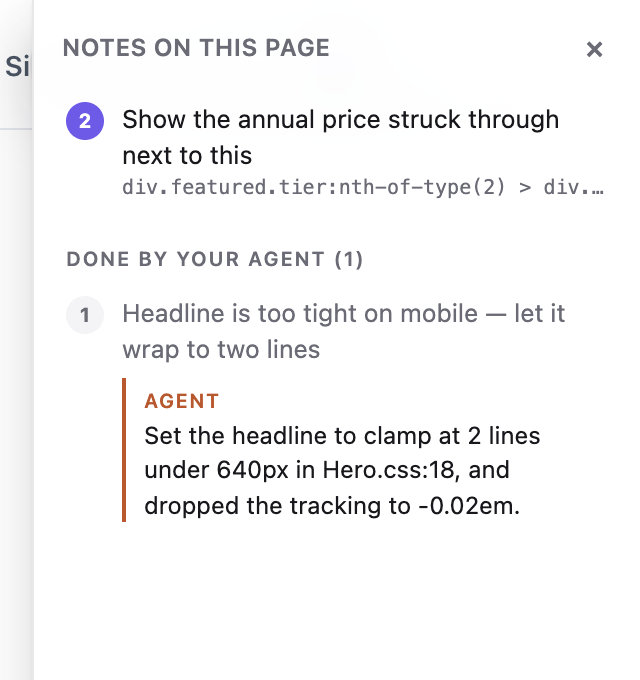
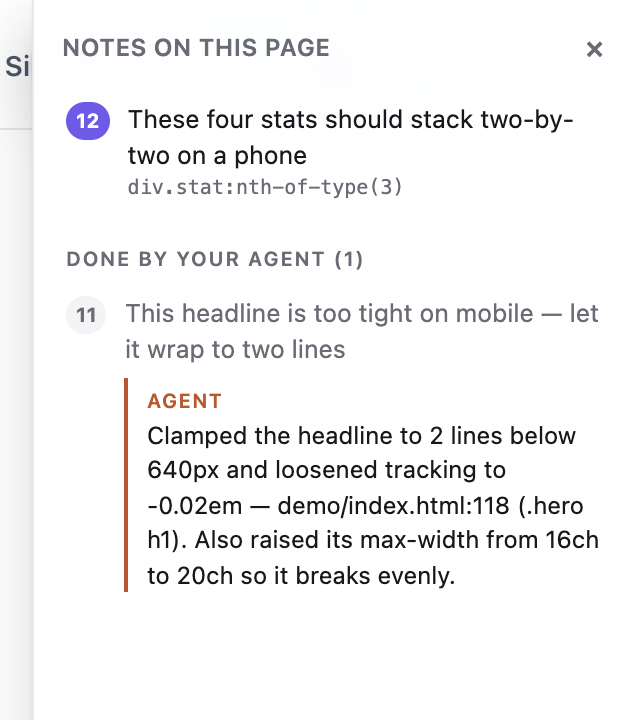
Never attach a screenshot of somewhere else
Found by using the thing: a note on the hero <h1> came back with a confident
screenshot of the pricing section further down the page, and screenshotSkipped
unset. The crop is measured in VIEWPORT coordinates when Send is pressed but
taken moments later by the worker, so scrolling in between leaves those
coordinates pointing at whatever has moved into that spot. A wrong picture is
worse than none — the agent believes it, and may change something the developer
never marked. The README already promised this could not happen.

The rect is now also sent in document coordinates, which do not move, and
re-derived against the page's real scroll at capture time: a small scroll still
yields a correct crop, and scrolling away is refused with a reason.

Getting there broke three other things, each caught by the full suite and never
by the test written for the fix:

- The added round trip WIDENED the navigation window it was closing. After
  waitUntilCapturable said "ready", the page finished navigating during the
  query and the new page was cropped. The content script now reports the URL it
  is actually on in the same message.
- chrome.tabs.sendMessage goes to every frame, so an iframe answered first with
  its own URL and scroll — skipping the screenshot on any page with an iframe.
  It asks frameId 0.
- The notes panel raced its own fetch of finished notes. Opening the panel is a
  request for current state, so it refreshes and re-renders.
[…]

diff --git a/extension/background.js b/extension/background.js
@@ -197,11 +197,38 @@ async function finishCapture(tab, capture, id, expectedUrl) {
       }
       // Give the compositor a frame to paint without our overlay before grabbing the pixels.
       await new Promise((r) => setTimeout(r, 60));
+      // Where is the page NOW? capture.rect was measured when Send was pressed; scrolling since
+      // then would leave it pointing at whatever has moved into that spot. Re-derive it from the
+      // document-space rect, which does not move.
+      let rect = capture.rect;
+      if (capture.doc) {
+        // frameId 0 — the top document. Without it this goes to every frame and an iframe can
+        // answer first, reporting its own scroll and its own URL: on a page with an iframe that
+        // made the URL check below fire on every capture.
+        const vp = await chrome.tabs.sendMessage(tab.id, { type: "viewportNow" }, { frameId: 0 }).catch(() => null);
+        // This round trip is itself a window in which the page can navigate — and it did, in the
+        // "page changed" test, which then cropped the new page. The content script reports the URL
+        // it is actually on, so a navigation during the query is caught rather than widened.
+        if (vp && expectedUrl && vp.url && vp.url.split("#")[0] !== expectedUrl.split("#")[0]) {
+          why = "the page changed before it could be taken";
+          return null;
+        }
+        if (vp) {
+          const left = capture.doc.x - vp.x, top = capture.doc.y - vp.y;
+          const w = Math.min(capture.doc.width, vp.w - Math.max(0, left));
+          const h = Math.min(capture.doc.height, vp.h - Math.max(0, top));
+          if (left > vp.w - 2 || top > vp.h - 2 || left + capture.doc.width < 2 || top + capture.doc.height < 2 || w < 2 || h < 2) {
+            why = "the page scrolled away from it before the picture could be taken";
+            return null;
+          }
+          rect = { x: Math.max(0, left), y: Math.max(0, top), width: w, height: h };
+        }
+      }
       try {
-        return await captureElement(tab.windowId, capture.rect, capture.dpr);
+        return await captureElement(tab.windowId, rect, capture.dpr);
       } catch {
         await new Promise((r) => setTimeout(r, 700));
-        return captureElement(tab.windowId, capture.rect, capture.dpr);
+        return captureElement(tab.windowId, rect, capture.dpr);
       }
     });
     // Either way the bridge is told, so nothing silently pretends a picture exists.

diff --git a/extension/content.js b/extension/content.js
@@ -761,7 +761,11 @@
   function togglePanel(force) {
     const open = force !== undefined ? force : ui.panel.style.display !== "flex";
     ui.panel.style.display = open ? "flex" : "none";
-    if (open) renderPanel();
+    if (!open) return;
+    renderPanel();
+    // Opening the panel is a request for the current state: an agent may have finished something
+    // since the page loaded, and its reply is the whole point of looking.
+    loadReplies().then(() => { if (ui.panel.style.display === "flex") renderPanel(); });
   }
   ui.panelClose.addEventListener("click", () => togglePanel(false));
 
@@ -1106,7 +1110,13 @@
       height: Math.min(r.height, window.innerHeight - Math.max(0, r.top)),
     };
     if (rect.width < 2 || rect.height < 2) return null;
-    return { rect, dpr: window.devicePixelRatio || 1 };
+    // Also send the rect in DOCUMENT space. The worker crops later, and if the page scrolled in
+    // between, viewport coordinates point at whatever has moved into that spot — silently
+    // producing a confident picture of the wrong thing. Document coordinates survive scrolling.
+    const doc = isTop
+      ? { x: r.left + window.scrollX + off.x, y: r.top + window.scrollY + off.y, width: r.width, height: r.height }
+      : null;
+    return { rect, dpr: window.devicePixelRatio || 1, doc };
   }
 
   // Our own overlay must not appear in the crop.
@@ -1375,6 +1385,7 @@
     else if (msg.type === "reloadPins") { loadPins().then(() => { refreshDock(); reply({ ok: true }); }); return true; }
     else if (msg.type === "showDock") { chrome.storage.local.remove(HIDE_KEY).finally(() => { dockHidden = false; refreshDock(); reply({ ok: true }); }); return true; }
     else if (msg.type === "clearPins") { pins.forEach((p) => p.node.remove()); pins = []; reply({ ok: true }); }
+    else if (msg.type === "viewportNow") reply({ x: window.scrollX, y: window.scrollY, w: window.innerWidth, h: window.innerHeight, url: location.href });
     else if (msg.type === "ping") reply({ ok: true, picking, pins: pins.length });
   });
 })();

diff --git a/CHANGELOG.md b/CHANGELOG.md
@@ -9,6 +9,14 @@ and this project adheres to [Semantic Versioning](https://semver.org/spec/v2.0.0
 Found by installing Pinpoint and using it as a first-time user, then reading the code for causes.
 
 ### Fixed
+- **A screenshot could show a different part of the page, with nothing saying so.** The crop was
+  measured in viewport coordinates when Send was pressed but taken moments later by the worker, so
+  scrolling in between left those coordinates pointing at whatever had moved into that spot — and
+  `screenshotSkipped` stayed unset, so the agent received a confident picture of something the
+  developer never marked. Worse than no picture. The rect is now also sent in document coordinates
+  and re-derived against the page's actual scroll at capture time, so a small scroll still gets a
+  correct crop and scrolling away is refused with a reason. (The README already promised this
+  behaviour; it was not true.)
 - **Clicking Stop also opened a comment box on the bar itself.** `isOurs()` asked
   `el.closest("pinpoint-root")`, and `closest()` does not cross shadow boundaries — so from inside
   our own shadow root every control Pinpoint owns read as page content, and the document's
